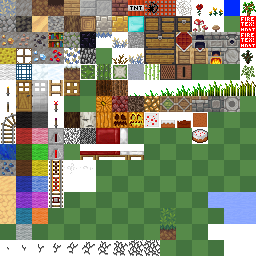
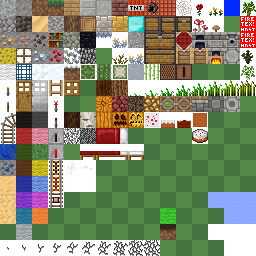
Fixed dirt blocks not being oriented correctly.
Some other blocks still are not properly oriented but it is not very noticable.

Changed region(s): [[0.625, 0.8125, 0.6875, 0.9062], [0.125, 0.5625, 0.1875, 0.625], [0.1875, 0.0, 0.25, 0.0312]]

diff --git a/src/wasabi/Chunk.java b/src/wasabi/Chunk.java
@@ -60,11 +60,6 @@ public class Chunk {
 
                 for(float y = 0; y < CHUNK_SIZE; y++){
                     
-                    // Here we'll do some prettying up on the block type positioning.
-                    // we'll probably want to do this elsewhere when we get more complex terrain gen,
-                    // but for now, I need access to the height variable, and this is where it is.
-                     
-                    
                     if (Blocks[(int) x][(int) y][(int) z].getType() == Block.BlockType.BlockType_Air){
                         continue;
                     }
@@ -168,12 +163,15 @@ public class Chunk {
         SimplexNoise noise = new SimplexNoise(50,0.3,r.nextInt());
         
         try{
-            texture = TextureLoader.getTexture("PNG", ResourceLoader.getResourceAsStream("src/wasabi/terrain.png"));
+            texture = TextureLoader.getTexture("PNG", ResourceLoader.getResourceAsStream("src/wasabi/terrain2.png"));
         }
         catch(Exception e)
         {
             System.out.print("Error, couldn't load terrain.png!");
         }
+        glTexParameteri(GL_TEXTURE_2D, GL_TEXTURE_MAG_FILTER, GL_NEAREST);
+        glTexParameteri(GL_TEXTURE_2D, GL_TEXTURE_MIN_FILTER, GL_NEAREST);
+        
         Blocks = new 
         Block[CHUNK_SIZE][CHUNK_SIZE][CHUNK_SIZE];
         for (int x = 0; x < CHUNK_SIZE; x++) {
@@ -231,37 +229,37 @@ public class Chunk {
     }
     
     public static float[] createTexCube(float x, float y, Block block) {
-        float offset = (1024f/16)/1024f;
+        float offset = (256f/16)/256f;
         switch (block.GetID()) {
             
             case 1: // grass
                 return new float[] {
-                // BOTTOM QUAD(DOWN=+Y) Actually top quiad
+                // Top
                 x + offset*3, y + offset*10, 
                 x + offset*2, y + offset*10, 
                 x + offset*2, y + offset*9,
                 x + offset*3, y + offset*9,
-                // TOP!
+                // bottom
                 x + offset*3, y + offset*1, 
                 x + offset*2, y + offset*1, 
                 x + offset*2, y + offset*0,
                 x + offset*3, y + offset*0,
-                // FRONT QUAD 
+                // FRONT Side 
                 x + offset*3, y + offset*0,
                 x + offset*4, y + offset*0,
                 x + offset*4, y + offset*1, 
                 x + offset*3, y + offset*1,
-                // BACK QUAD
+                // BACK Side
                 x + offset*4, y + offset*1, 
                 x + offset*3, y + offset*1,
                 x + offset*3, y + offset*0,
                 x + offset*4, y + offset*0,
-                // LEFT QUAD 
+                // LEFT Side 
                 x + offset*3, y + offset*0,
                 x + offset*4, y + offset*0,
                 x + offset*4, y + offset*1, 
                 x + offset*3, y + offset*1,
-                // RIGHT QUAD
+                // RIGHT Side
                 x + offset*3, y + offset*0,
                 x + offset*4, y + offset*0,
                 x + offset*4, y + offset*1, 
@@ -269,12 +267,12 @@ public class Chunk {
                 
             case 2: // sand
                 return new float[] {
-                // BOTTOM QUAD(DOWN=+Y) Actually top quiad
+                // top
                 x + offset*3, y + offset*2, 
                 x + offset*2, y + offset*2, 
                 x + offset*2, y + offset*1,
                 x + offset*3, y + offset*1,
-                // TOP!
+                // bottom
                 x + offset*3, y + offset*2, 
                 x + offset*2, y + offset*2, 
                 x + offset*2, y + offset*1,
@@ -302,12 +300,12 @@ public class Chunk {
                 
             case 3: // water
                 return new float[] {
-                // BOTTOM QUAD(DOWN=+Y) Actually top quad
+                // top
                 x + offset*14, y + offset*13, 
                 x + offset*13, y + offset*13, 
                 x + offset*13, y + offset*12,
                 x + offset*14, y + offset*12,
-                // TOP!
+                // Bottom
                 x + offset*14, y + offset*13, 
                 x + offset*13, y + offset*13, 
                 x + offset*13, y + offset*12,
@@ -334,36 +332,36 @@ public class Chunk {
                 x + offset*14, y + offset*12};
             case 4: //dirt
                 return new float[] {
-                    // BOTTOM QUAD(DOWN=+Y)
-                    x + offset*3, y + offset*1,
-                    x + offset*2, y + offset*1,
-                    x + offset*2, y + offset*0,
-                    x + offset*3, y + offset*0,
-                    // TOP!
-                    x + offset*3, y + offset*1,
-                    x + offset*2, y + offset*1,
-                    x + offset*2, y + offset*0,
-                    x + offset*3, y + offset*0,
-                    // FRONT QUAD
-                    x + offset*3, y + offset*1,
-                    x + offset*2, y + offset*1,
-                    x + offset*2, y + offset*0,
-                    x + offset*3, y + offset*0,
-                    // BACK QUAD
-                    x + offset*3, y + offset*1,
-                    x + offset*2, y + offset*1,
-                    x + offset*2, y + offset*0,
-                    x + offset*3, y + offset*0,
-                    // LEFT QUAD
-                    x + offset*3, y + offset*1,
-                    x + offset*2, y + offset*1,
-                    x + offset*2, y + offset*0,
-                    x + offset*3, y + offset*0,
-                    // RIGHT QUAD
-                    x + offset*3, y + offset*1,
-                    x + offset*2, y + offset*1,
-                    x + offset*2, y + offset*0,
-                    x + offset*3, y + offset*0};
+                // top
+                x + offset*3, y + offset*1,
+                x + offset*2, y + offset*1,
+                x + offset*2, y + offset*0,
+                x + offset*3, y + offset*0,
+                // bottom
+                x + offset*3, y + offset*1,
+                x + offset*2, y + offset*1,
+                x + offset*2, y + offset*0,
+                x + offset*3, y + offset*0,
+                // FRONT QUAD (farthest)
+                x + offset*2, y + offset*0,
+                x + offset*3, y + offset*0,
+                x + offset*3, y + offset*1,
+                x + offset*2, y + offset*1,
+                // BACK QUAD (closest)
+                x + offset*3, y + offset*1,
+                x + offset*2, y + offset*1,
+                x + offset*2, y + offset*0,
+                x + offset*3, y + offset*0,
+                // LEFT QUAD
+                x + offset*2, y + offset*0,
+                x + offset*3, y + offset*0,
+                x + offset*3, y + offset*1,
+                x + offset*2, y + offset*1,
+                // RIGHT QUAD
+                x + offset*2, y + offset*0,
+                x + offset*3, y + offset*0,
+                x + offset*3, y + offset*1,
+                x + offset*2, y + offset*1};
             case 5: // Stone
                 return new float[] {
                 // BOTTOM QUAD(DOWN=+Y) Actually top quad
